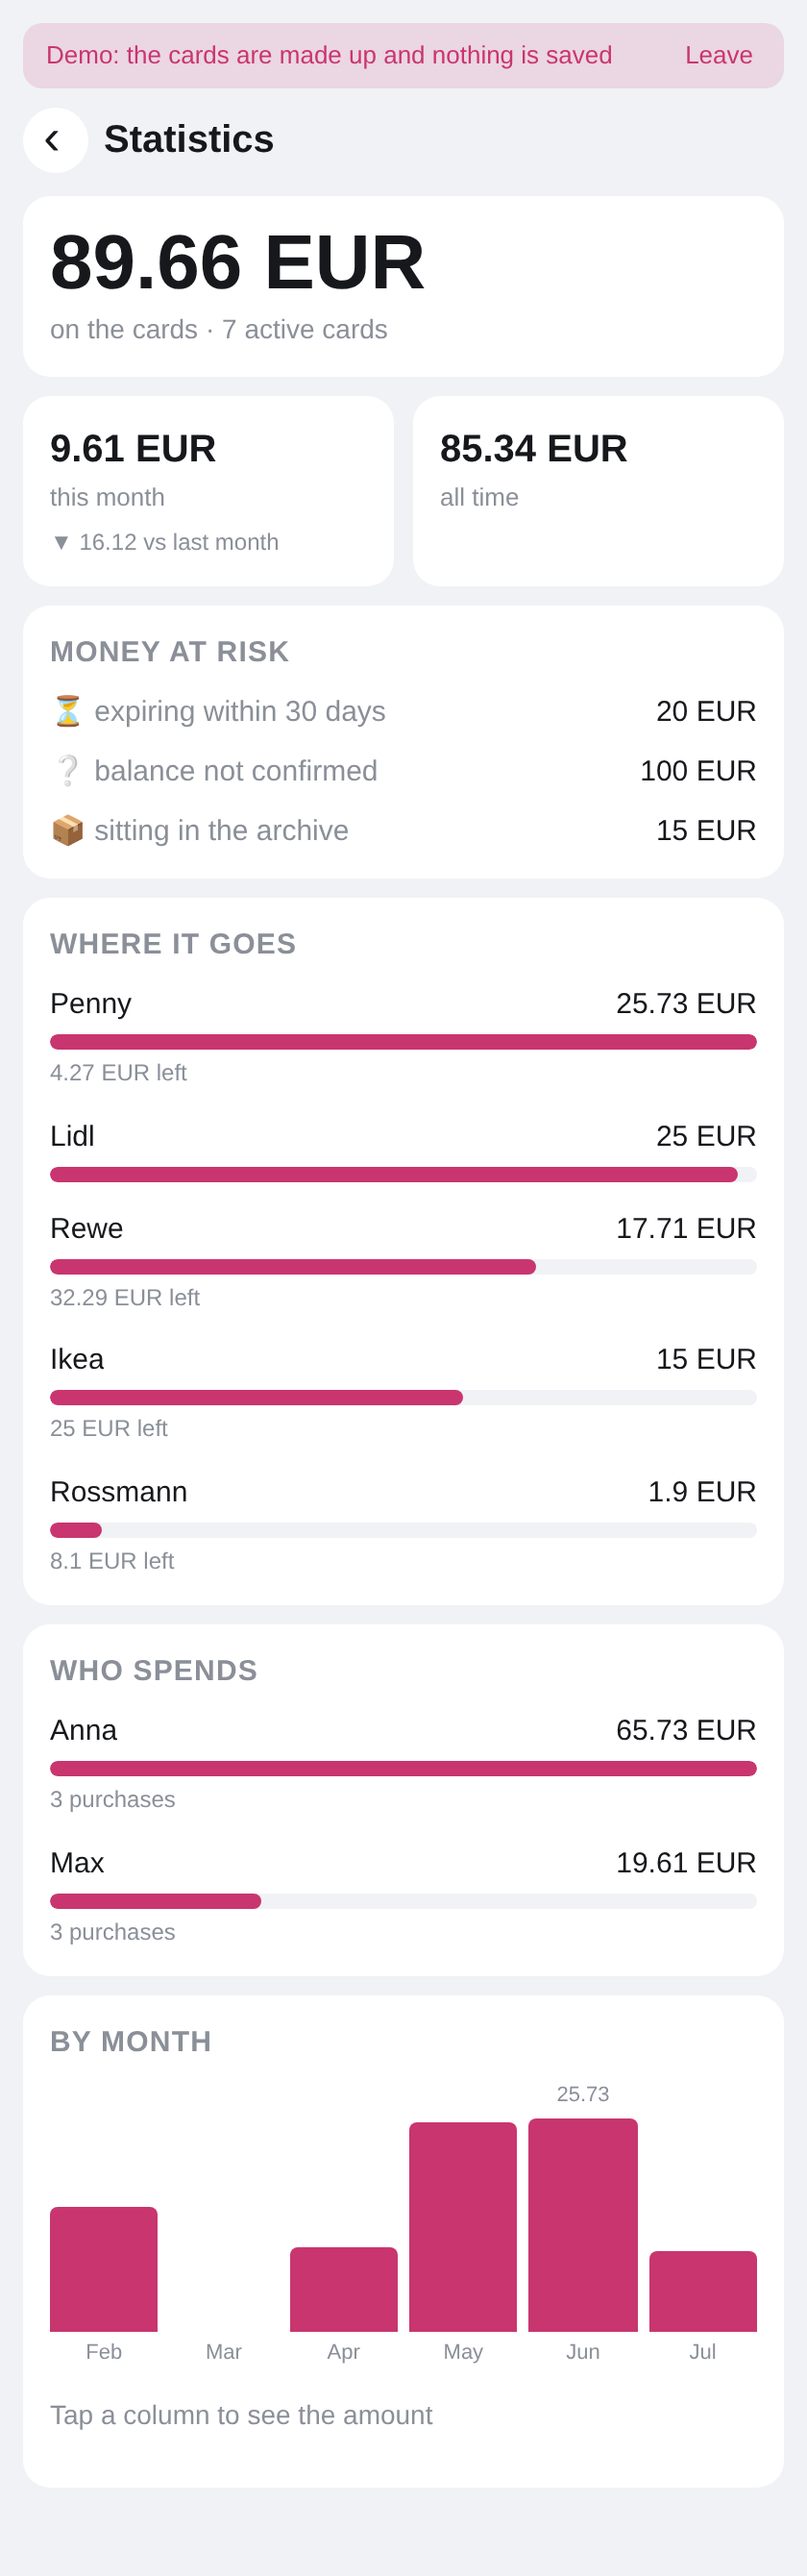
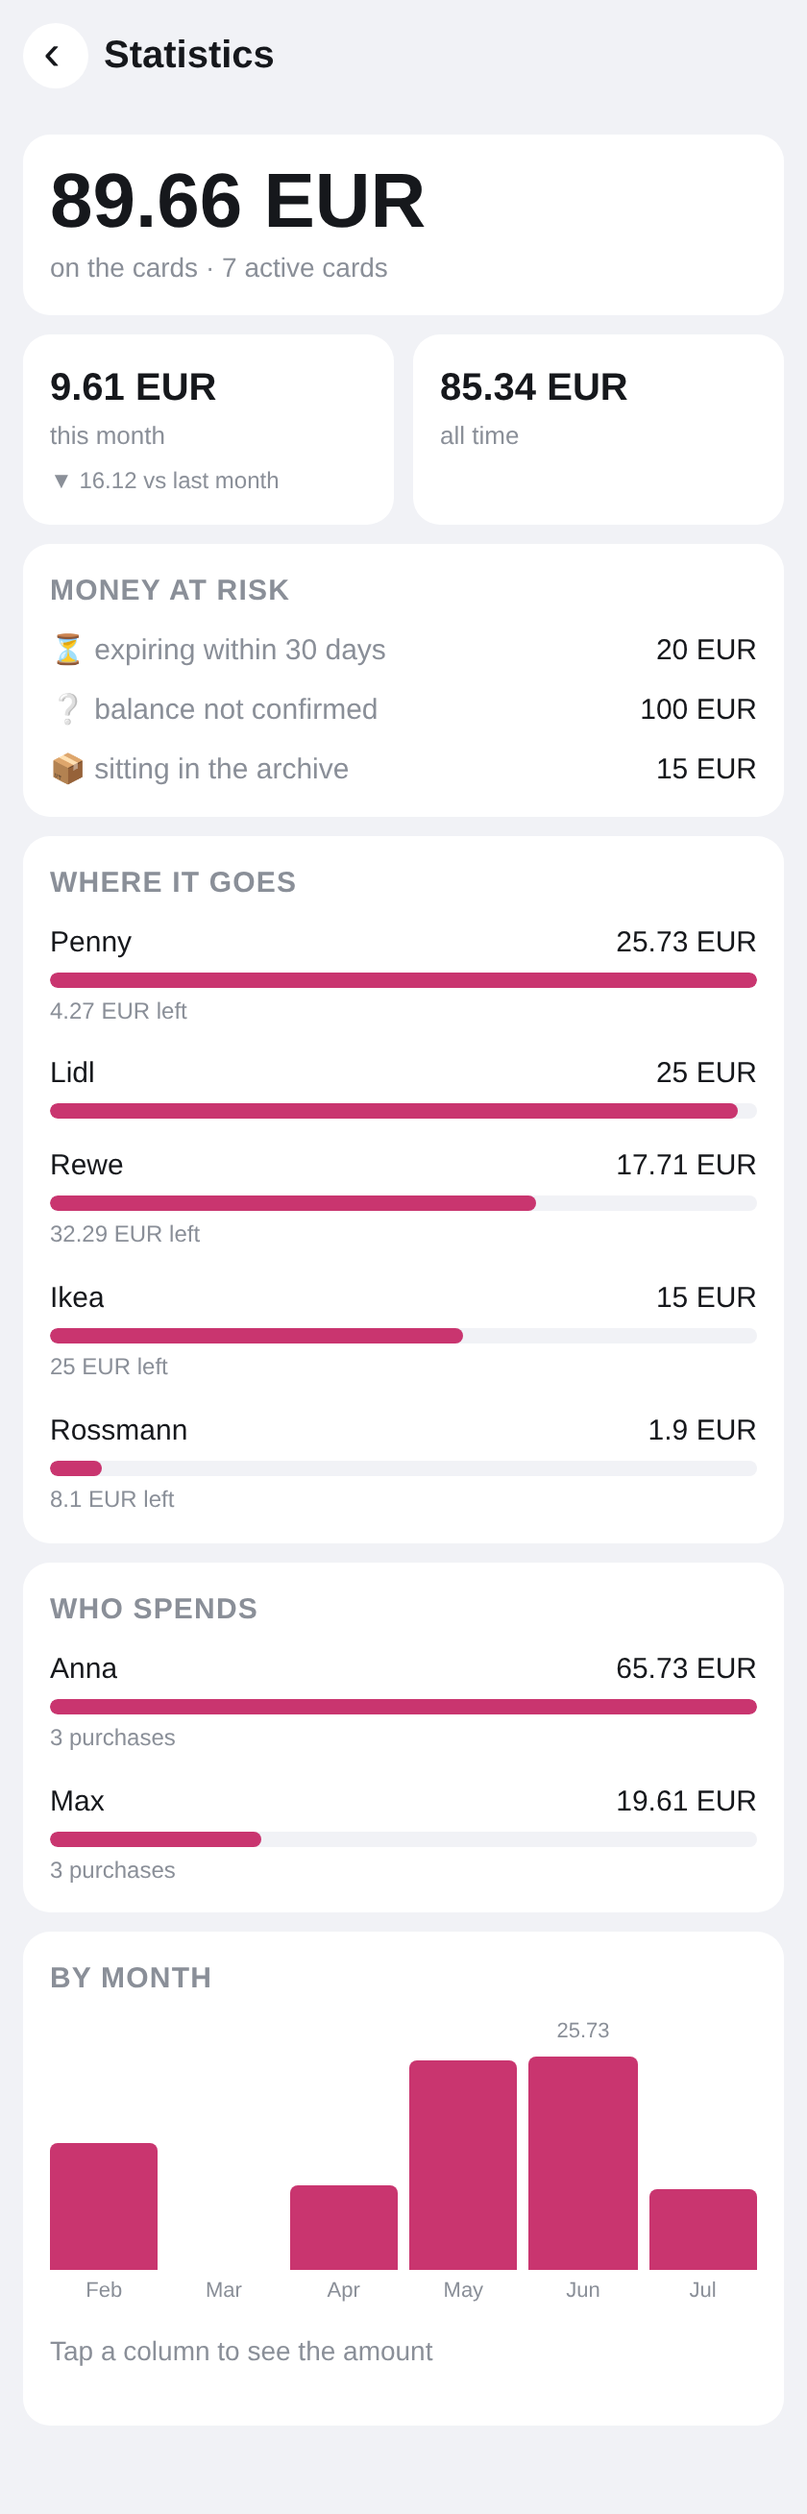
badges, screens, readmi

diff --git a/frontend/e2e/record.spec.ts b/frontend/e2e/record.spec.ts
@@ -28,6 +28,9 @@ const BEAT = 900
 
 test('walkthrough', async ({ page }) => {
   await page.goto('/demo')
+  // The demo banner belongs to the demo, not to the app; on a recording meant to
+  // show the product it would read as part of it.
+  await page.addStyleTag({ content: '.demo-bar { display: none !important; }' })
   await page.locator('.card').first().waitFor()
   await page.waitForTimeout(BEAT * 2)
 

diff --git a/README.md b/README.md
@@ -2,6 +2,10 @@
 
 # Gutschwein
 
+[![CI](https://github.com/MarvinParanoid/Gutschwein/actions/workflows/ci.yml/badge.svg)](https://github.com/MarvinParanoid/Gutschwein/actions/workflows/ci.yml)
+[![Licence: MIT](https://img.shields.io/badge/licence-MIT-blue.svg)](LICENSE)
+[![Image](https://img.shields.io/badge/ghcr.io-gutschwein-2496ed?logo=docker&logoColor=white)](https://github.com/MarvinParanoid/Gutschwein/pkgs/container/gutschwein)
+
 A family gift-card manager: what is left on each card, who spent what, and a screen the
 cashier can scan. Runs as a Telegram Mini App and as an installable PWA.
 
@@ -60,6 +64,19 @@ card's history: who, how much, when, and what for.
 - **Into the family chat**: new card, payment with the remainder, new comment, an expiry
   reminder, a weekly digest and a nightly backup file
 - **Three languages** — English, German, Russian — picked automatically, no switch to set
+
+## Screenshots
+
+The demo dataset, so every figure here is made up.
+
+| | | |
+|---|---|---|
+| [<img src="docs/screenshots/01-list.png" width="200">](docs/screenshots/01-list.png) | [<img src="docs/screenshots/02-scan.png" width="200">](docs/screenshots/02-scan.png) | [<img src="docs/screenshots/03-card.png" width="200">](docs/screenshots/03-card.png) |
+| The list: soonest expiry first, what is left in large type | Scan mode: the barcode redrawn from the screenshot | A card: balance, history, comments |
+| [<img src="docs/screenshots/04-stats.png" width="200">](docs/screenshots/04-stats.png) | [<img src="docs/screenshots/05-form.png" width="200">](docs/screenshots/05-form.png) | [<img src="docs/screenshots/06-access.png" width="200">](docs/screenshots/06-access.png) |
+| Statistics: what you hold, where it goes, who spends | Adding a card by hand — two fields is the usual case | Access: invitations and signed-in devices |
+| [<img src="docs/screenshots/07-dark.png" width="200">](docs/screenshots/07-dark.png) | | |
+| Dark mode, following the phone or Telegram | | |
 
 ## Stack
 

diff --git a/docs/deploy.md b/docs/deploy.md
@@ -58,7 +58,9 @@ what once ran a 1 GB VPS out of memory.
 `docker compose up -d --build` still builds from the checkout instead, which is what a
 developer wants and the only way to run changes that are not pushed yet.
 
-Every commit on `main` is also tagged with its first twelve characters, and the deploy is
+A git tag `v*` publishes an image under that name and deliberately leaves `:latest` alone,
+which belongs to `main`. Every commit on `main` is also tagged with its first twelve
+characters, and the deploy is
 pinned to the commit that produced it rather than to whatever `:latest` points at by the
 time the server gets round to pulling. Rolling back is therefore a tag:
 
